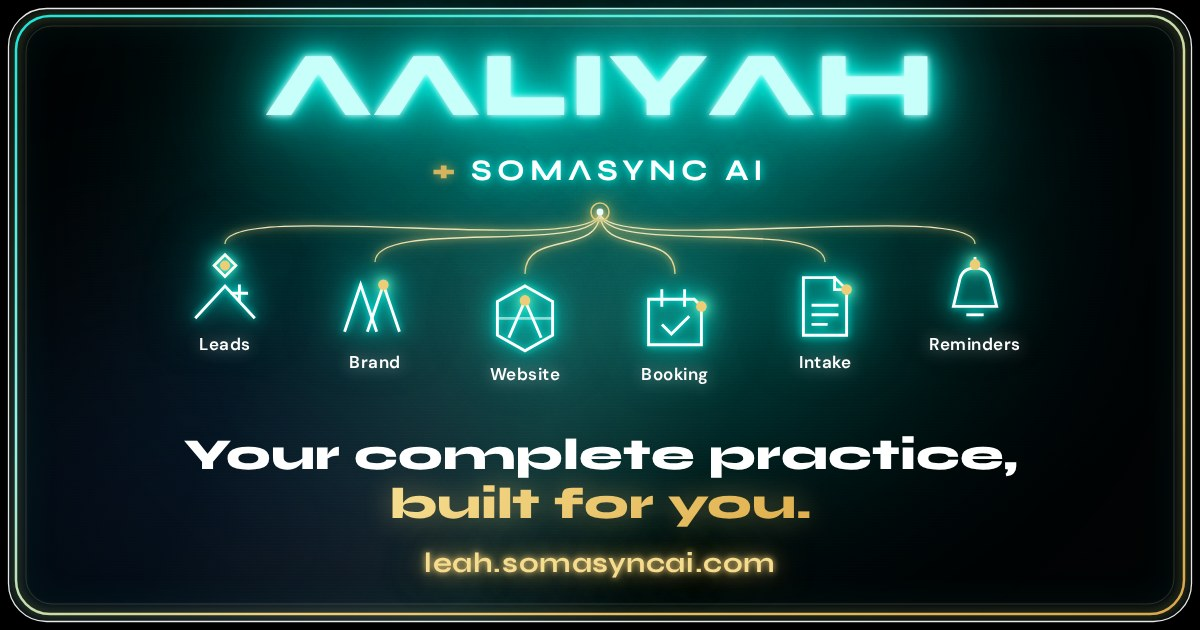
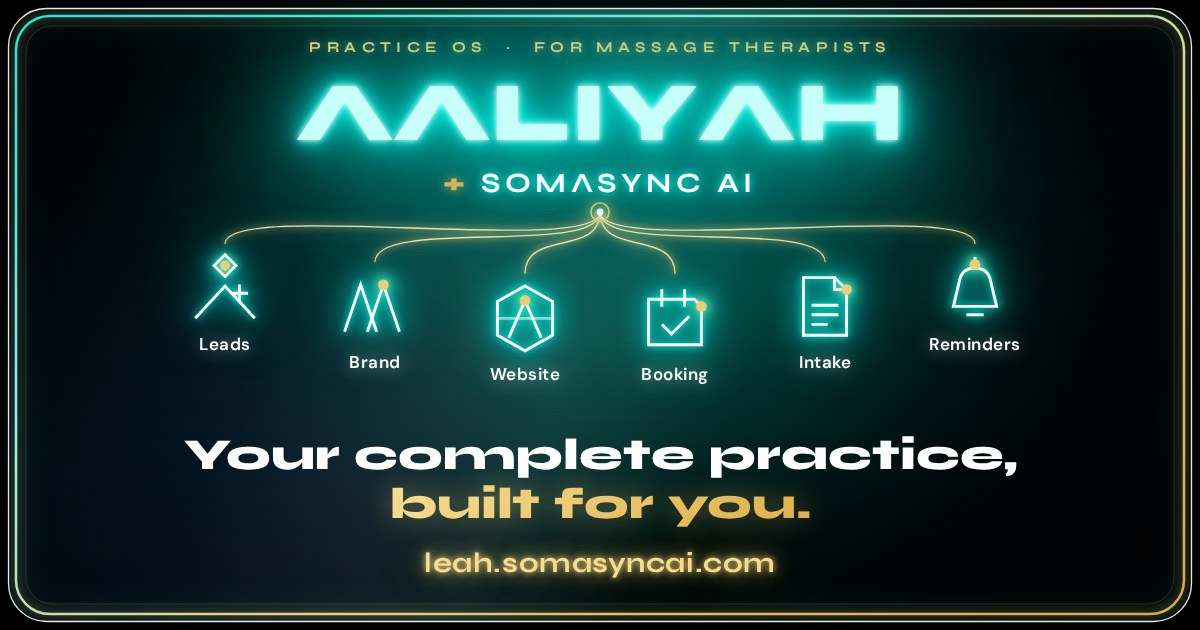
Share preview: Practice OS kicker and matching OG/Twitter titles

Changed region(s): [[0.185, 0.0302, 0.8017, 0.3317]]

diff --git a/index.html b/index.html
@@ -11,14 +11,14 @@
   <meta property="og:type" content="website">
   <meta property="og:site_name" content="Leah + SomaSync AI">
   <meta property="og:url" content="https://leah.somasyncai.com/">
-  <meta property="og:title" content="Massage Practice Websites &amp; Systems | Leah + SomaSync AI">
+  <meta property="og:title" content="Practice OS for Massage Therapists | Leah + SomaSync AI">
   <meta property="og:description" content="Leah and SomaSync AI build one branded system around you: logo, website, online booking, intake and reminders. Launch $175 · Growth $225 · Complete $300, one time.">
   <meta property="og:image" content="https://leah.somasyncai.com/og-launch-preview.jpg">
   <meta property="og:image:width" content="1200">
   <meta property="og:image:height" content="630">
   <meta property="og:image:alt" content="Your complete practice, built for you. Leah + SomaSync AI: leads, brand, website, online booking, intake and reminders for massage therapists.">
   <meta name="twitter:card" content="summary_large_image">
-  <meta name="twitter:title" content="Massage Practice Websites &amp; Systems | Leah + SomaSync AI">
+  <meta name="twitter:title" content="Practice OS for Massage Therapists | Leah + SomaSync AI">
   <meta name="twitter:description" content="Leah and SomaSync AI build one branded system around you: logo, website, online booking, intake and reminders. Launch $175 · Growth $225 · Complete $300, one time.">
   <meta name="twitter:image" content="https://leah.somasyncai.com/og-launch-preview.jpg">
   <script type="application/ld+json">
